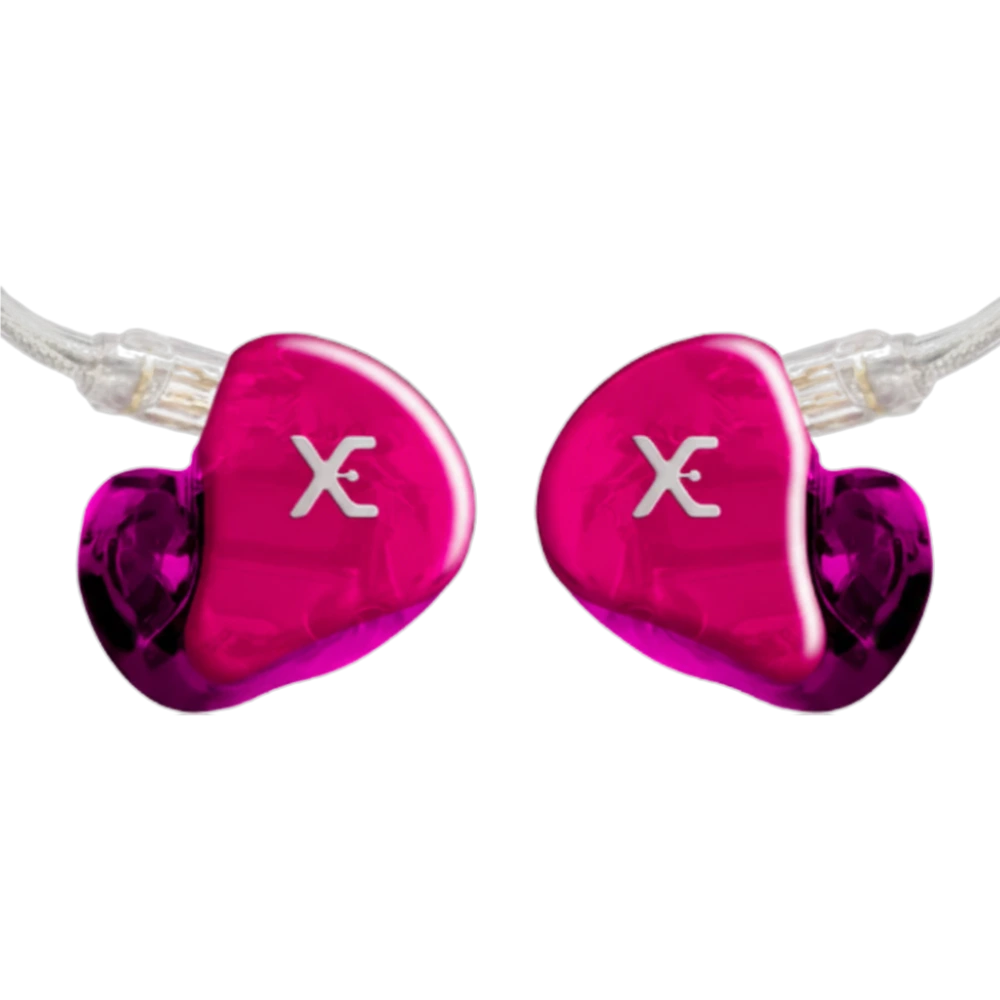
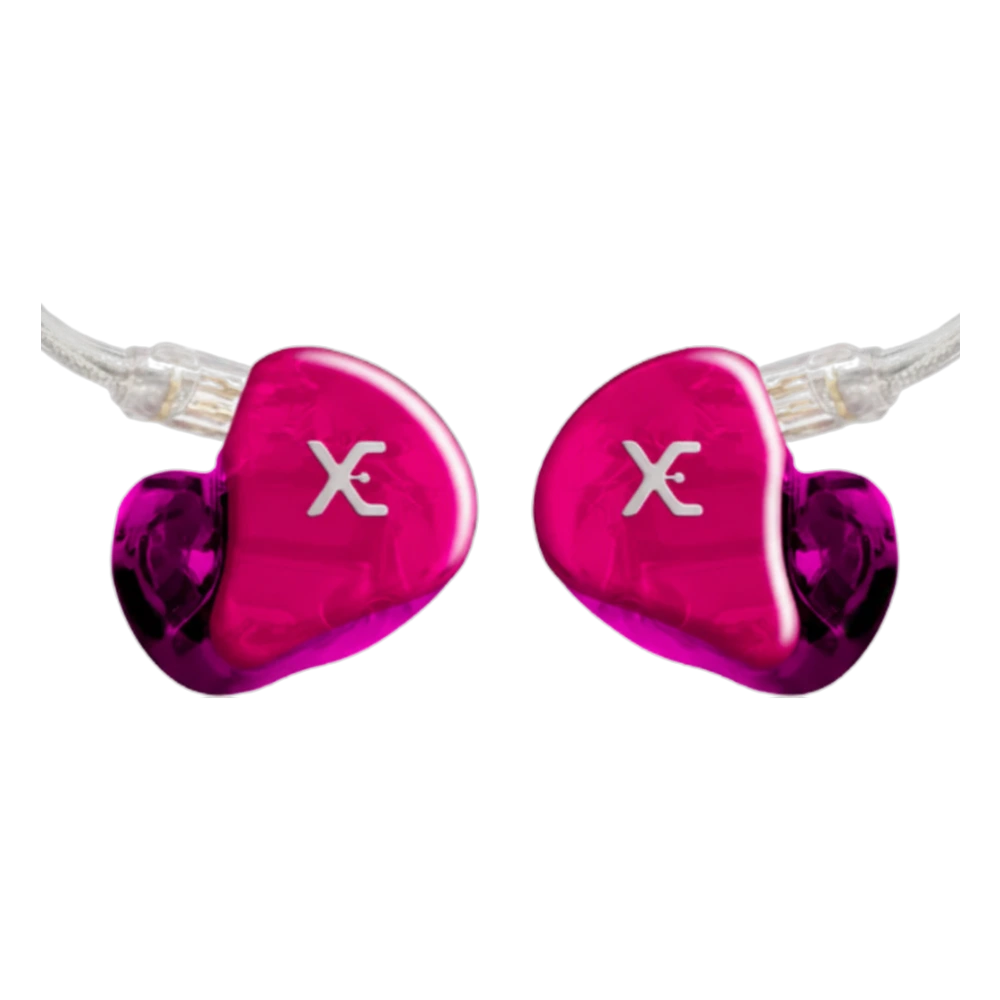
Produto ajustado ao circulo, nao ao quadrado
Eu encaixava o produto no quadrado do canvas, mas a mascara no site e
redonda: tudo que ficava perto dos cantos caia fora do circulo. Era isso
que cortava os universais, que sao diagonais — e o 104% que eu tinha
posto pra garantir o encosto piorava.

Agora a escala sai do ponto mais distante do CENTRO do produto, nao da
caixa que o contem. O ponto extremo encosta na borda, nada passa dela, e
a imagem volta pra 100%.

diff --git a/assets/site.css b/assets/site.css
@@ -271,13 +271,13 @@ button,input,select,textarea{font:inherit;color:inherit}
   transition:border-color .4s var(--ease);
 }
 .modelo-linha:hover .modelo-img{border-color:rgba(255,255,255,.42)}
-/* As imagens sao geradas num quadrado com o produto ajustado ao quadro
-   inteiro (ver tools/gerar-base.html). Entao 104% faz o produto encostar na
-   borda do circulo pelo lado mais comprido e ser cortado por ela — e o mesmo
-   valor serve pra todas, moldado ou universal. Abaixo de 100% sobra vao e
-   volta a parecer imagem cortada no ar. */
+/* 100%, nao mais: as imagens sao geradas num quadrado com o produto ajustado
+   ao quadro (tools/gerar-base.html), e o circulo inscrito nesse quadrado tem
+   o mesmo diametro. Entao em 100% a ponta do cabo encosta na borda e NADA e
+   cortado. Qualquer valor acima come o produto — nos universais, que sao
+   altos, come o proprio fone. */
 .modelo-img img{
-  width:104%;height:auto;max-width:none;
+  width:100%;height:auto;max-width:none;
   transition:transform .6s var(--ease);
 }
 .modelo-linha:hover .modelo-img img{transform:scale(1.04)}
@@ -569,7 +569,7 @@ button,input,select,textarea{font:inherit;color:inherit}
 .modelo-foto{margin:0;position:relative;display:grid;place-items:center;
   width:min(100%,480px);aspect-ratio:1;margin-inline:auto;
   border:1px solid rgba(255,255,255,.2);border-radius:50%;overflow:hidden}
-.modelo-foto img{width:104%;height:auto;max-width:none;display:block}
+.modelo-foto img{width:100%;height:auto;max-width:none;display:block}
 /* o selo segue o circulo, nao o canto do quadrado que o contem */
 .modelo-foto .card-flag{position:absolute;top:9%;left:50%;transform:translateX(-50%)}
 
@@ -600,7 +600,7 @@ button,input,select,textarea{font:inherit;color:inherit}
 .irmao:hover{border-color:var(--line);transform:translateY(-3px)}
 .irmao .volta{display:grid;place-items:center;width:72%;aspect-ratio:1;margin:24px auto 0;
   border:1px solid rgba(255,255,255,.18);border-radius:50%;overflow:hidden}
-.irmao img{width:104%;height:auto;max-width:none;filter:drop-shadow(0 12px 18px rgba(0,0,0,.55))}
+.irmao img{width:100%;height:auto;max-width:none;filter:drop-shadow(0 12px 18px rgba(0,0,0,.55))}
 .irmao div{padding:22px 24px 26px}
 .irmao strong{display:block;font-size:21px;font-weight:900;letter-spacing:-.03em}
 .irmao span{display:block;font-size:14px;color:var(--muted);margin-top:5px}

diff --git a/tools/knockout.html b/tools/knockout.html
@@ -243,24 +243,30 @@ function recorta(src, zona){
 }
 
 function padroniza(r){
-  const cw=r.cx1-r.cx0+1, ch=r.cy1-r.cy0+1;   // so as capsulas
-  const tw=r.x1-r.x0+1,  th=r.y1-r.y0+1;      // produto inteiro, com cabo
   const out=document.createElement('canvas'); out.width=OW; out.height=OH;
   const o=out.getContext('2d');
   o.imageSmoothingQuality='high';
 
-  // A escala QUER ser definida pelas capsulas, pra que o fone apareca do mesmo
-  // tamanho em todos os cards. Mas o cabo nao pode ser cortado na borda: isso
-  // le como erro, nao como enquadramento. Entao a escala das capsulas e o
-  // alvo, e o produto inteiro e o teto — vence o menor dos dois.
-  const s = Math.min(OW/tw, OH/th);   // produto ajustado ao quadro
+  // Ajusta ao CIRCULO, nao ao quadrado. A mascara no site e redonda; encaixar
+  // o produto no quadrado deixa tudo que esta perto dos cantos pra fora do
+  // circulo. A escala sai do ponto mais distante do centro: assim ele encosta
+  // na borda e nada passa dela.
+  const W=r.c.width, H=r.c.height;
+  const x2=r.c.getContext('2d',{willReadFrequently:true});
+  const d=x2.getImageData(0,0,W,H).data;
+  const cenX=(r.x0+r.x1)/2, cenY=(r.y0+r.y1)/2;
+  let maxR=1;
+  for(let py=r.y0;py<=r.y1;py++) for(let px=r.x0;px<=r.x1;px++){
+    if(d[(py*W+px)*4+3]<=16) continue;
+    const rr=Math.hypot(px-cenX, py-cenY);
+    if(rr>maxR) maxR=rr;
+  }
+  const s=(OW/2)/maxR;
 
-  // centra pelo produto inteiro, pra sobrar margem igual dos dois lados
-  const centroX=(r.x0+r.x1)/2, centroY=(r.y0+r.y1)/2;
-  o.drawImage(r.c, 0,0, r.c.width, r.c.height,
-              OW/2 - centroX*s, OH/2 - centroY*s, r.c.width*s, r.c.height*s);
+  o.drawImage(r.c, 0,0, W, H, OW/2 - cenX*s, OH/2 - cenY*s, W*s, H*s);
   return out;
 }
+
 
 (async()=>{
   const linhas=[];

diff --git a/tools/gerar-base.html b/tools/gerar-base.html
@@ -102,8 +102,20 @@ const load=s=>new Promise((r,j)=>{const i=new Image();i.onload=()=>r(i);i.onerro
     if(px<X0)X0=px; if(px>X1)X1=px; if(py<Y0)Y0=py; if(py>Y1)Y1=py}
   const out=document.createElement('canvas'); out.width=OW; out.height=OH;
   const o=out.getContext('2d'); o.imageSmoothingQuality='high';
-  const s=Math.min(OW/(X1-X0+1), OH/(Y1-Y0+1));
-  const mx=(X0+X1)/2, my=(Y0+Y1)/2;
+  // ---- ajusta ao CIRCULO, nao ao quadrado ----
+  // A mascara no site e redonda. Encaixar o produto no quadrado deixa tudo
+  // que esta perto dos cantos pra fora do circulo — e o que cortava os
+  // universais, que sao diagonais. Aqui a escala sai do ponto mais distante
+  // do centro: assim ele encosta na borda e nada passa dela.
+  const cenX=(X0+X1)/2, cenY=(Y0+Y1)/2;
+  let maxR=1;
+  for(let py=Y0;py<=Y1;py++) for(let px=X0;px<=X1;px++){
+    if(dd[(py*W+px)*4+3]<=16) continue;
+    const r=Math.hypot(px-cenX, py-cenY);
+    if(r>maxR) maxR=r;
+  }
+  const s=(OW/2)/maxR;
+  const mx=cenX, my=cenY;
   o.drawImage(c1,0,0,W,alt, OW/2-mx*s, OH/2-my*s, W*s, alt*s);
 
   const blob=await new Promise(k=>out.toBlob(k,'image/webp',0.92));

diff --git a/one-plus-pro/index.html b/one-plus-pro/index.html
@@ -15,7 +15,7 @@
 <link rel="preconnect" href="https://fonts.googleapis.com">
 <link rel="preconnect" href="https://fonts.gstatic.com" crossorigin>
 <link rel="stylesheet" href="https://fonts.googleapis.com/css2?family=DM+Sans:opsz,wght@9..40,400;9..40,500;9..40,600;9..40,700;9..40,800;9..40,900&display=swap">
-<link rel="stylesheet" href="../assets/site.css?v=202610032117">
+<link rel="stylesheet" href="../assets/site.css?v=202610032127">
 </head>
 <body>
 <a class="skip" href="#conteudo">Pular para o conteúdo</a>
@@ -249,6 +249,6 @@
 </a>
 
 <script async src="https://www.instagram.com/embed.js"></script>
-<script src="../assets/site.js?v=202610032117"></script>
+<script src="../assets/site.js?v=202610032127"></script>
 </body>
 </html>

diff --git a/onemax-pro/index.html b/onemax-pro/index.html
@@ -15,7 +15,7 @@
 <link rel="preconnect" href="https://fonts.googleapis.com">
 <link rel="preconnect" href="https://fonts.gstatic.com" crossorigin>
 <link rel="stylesheet" href="https://fonts.googleapis.com/css2?family=DM+Sans:opsz,wght@9..40,400;9..40,500;9..40,600;9..40,700;9..40,800;9..40,900&display=swap">
-<link rel="stylesheet" href="../assets/site.css?v=202610032117">
+<link rel="stylesheet" href="../assets/site.css?v=202610032127">
 </head>
 <body>
 <a class="skip" href="#conteudo">Pular para o conteúdo</a>
@@ -251,6 +251,6 @@
 </a>
 
 <script async src="https://www.instagram.com/embed.js"></script>
-<script src="../assets/site.js?v=202610032117"></script>
+<script src="../assets/site.js?v=202610032127"></script>
 </body>
 </html>

diff --git a/xe12-pro/index.html b/xe12-pro/index.html
@@ -15,7 +15,7 @@
 <link rel="preconnect" href="https://fonts.googleapis.com">
 <link rel="preconnect" href="https://fonts.gstatic.com" crossorigin>
 <link rel="stylesheet" href="https://fonts.googleapis.com/css2?family=DM+Sans:opsz,wght@9..40,400;9..40,500;9..40,600;9..40,700;9..40,800;9..40,900&display=swap">
-<link rel="stylesheet" href="../assets/site.css?v=202610032117">
+<link rel="stylesheet" href="../assets/site.css?v=202610032127">
 </head>
 <body>
 <a class="skip" href="#conteudo">Pular para o conteúdo</a>
@@ -252,6 +252,6 @@
 </a>
 
 <script async src="https://www.instagram.com/embed.js"></script>
-<script src="../assets/site.js?v=202610032117"></script>
+<script src="../assets/site.js?v=202610032127"></script>
 </body>
 </html>

diff --git a/xe14-pro/index.html b/xe14-pro/index.html
@@ -15,7 +15,7 @@
 <link rel="preconnect" href="https://fonts.googleapis.com">
 <link rel="preconnect" href="https://fonts.gstatic.com" crossorigin>
 <link rel="stylesheet" href="https://fonts.googleapis.com/css2?family=DM+Sans:opsz,wght@9..40,400;9..40,500;9..40,600;9..40,700;9..40,800;9..40,900&display=swap">
-<link rel="stylesheet" href="../assets/site.css?v=202610032117">
+<link rel="stylesheet" href="../assets/site.css?v=202610032127">
 </head>
 <body>
 <a class="skip" href="#conteudo">Pular para o conteúdo</a>
@@ -249,6 +249,6 @@
 </a>
 
 <script async src="https://www.instagram.com/embed.js"></script>
-<script src="../assets/site.js?v=202610032117"></script>
+<script src="../assets/site.js?v=202610032127"></script>
 </body>
 </html>

diff --git a/xe3-pro/index.html b/xe3-pro/index.html
@@ -15,7 +15,7 @@
 <link rel="preconnect" href="https://fonts.googleapis.com">
 <link rel="preconnect" href="https://fonts.gstatic.com" crossorigin>
 <link rel="stylesheet" href="https://fonts.googleapis.com/css2?family=DM+Sans:opsz,wght@9..40,400;9..40,500;9..40,600;9..40,700;9..40,800;9..40,900&display=swap">
-<link rel="stylesheet" href="../assets/site.css?v=202610032117">
+<link rel="stylesheet" href="../assets/site.css?v=202610032127">
 </head>
 <body>
 <a class="skip" href="#conteudo">Pular para o conteúdo</a>
@@ -250,6 +250,6 @@
 </a>
 
 <script async src="https://www.instagram.com/embed.js"></script>
-<script src="../assets/site.js?v=202610032117"></script>
+<script src="../assets/site.js?v=202610032127"></script>
 </body>
 </html>

diff --git a/xe4-pro/index.html b/xe4-pro/index.html
@@ -15,7 +15,7 @@
 <link rel="preconnect" href="https://fonts.googleapis.com">
 <link rel="preconnect" href="https://fonts.gstatic.com" crossorigin>
 <link rel="stylesheet" href="https://fonts.googleapis.com/css2?family=DM+Sans:opsz,wght@9..40,400;9..40,500;9..40,600;9..40,700;9..40,800;9..40,900&display=swap">
-<link rel="stylesheet" href="../assets/site.css?v=202610032117">
+<link rel="stylesheet" href="../assets/site.css?v=202610032127">
 </head>
 <body>
 <a class="skip" href="#conteudo">Pular para o conteúdo</a>
@@ -251,6 +251,6 @@
 </a>
 
 <script async src="https://www.instagram.com/embed.js"></script>
-<script src="../assets/site.js?v=202610032117"></script>
+<script src="../assets/site.js?v=202610032127"></script>
 </body>
 </html>

diff --git a/xe5-pro/index.html b/xe5-pro/index.html
@@ -15,7 +15,7 @@
 <link rel="preconnect" href="https://fonts.googleapis.com">
 <link rel="preconnect" href="https://fonts.gstatic.com" crossorigin>
 <link rel="stylesheet" href="https://fonts.googleapis.com/css2?family=DM+Sans:opsz,wght@9..40,400;9..40,500;9..40,600;9..40,700;9..40,800;9..40,900&display=swap">
-<link rel="stylesheet" href="../assets/site.css?v=202610032117">
+<link rel="stylesheet" href="../assets/site.css?v=202610032127">
 </head>
 <body>
 <a class="skip" href="#conteudo">Pular para o conteúdo</a>
@@ -251,6 +251,6 @@
 </a>
 
 <script async src="https://www.instagram.com/embed.js"></script>
-<script src="../assets/site.js?v=202610032117"></script>
+<script src="../assets/site.js?v=202610032127"></script>
 </body>
 </html>

diff --git a/xe6-pro/index.html b/xe6-pro/index.html
@@ -15,7 +15,7 @@
 <link rel="preconnect" href="https://fonts.googleapis.com">
 <link rel="preconnect" href="https://fonts.gstatic.com" crossorigin>
 <link rel="stylesheet" href="https://fonts.googleapis.com/css2?family=DM+Sans:opsz,wght@9..40,400;9..40,500;9..40,600;9..40,700;9..40,800;9..40,900&display=swap">
-<link rel="stylesheet" href="../assets/site.css?v=202610032117">
+<link rel="stylesheet" href="../assets/site.css?v=202610032127">
 </head>
 <body>
 <a class="skip" href="#conteudo">Pular para o conteúdo</a>
@@ -251,6 +251,6 @@
 </a>
 
 <script async src="https://www.instagram.com/embed.js"></script>
-<script src="../assets/site.js?v=202610032117"></script>
+<script src="../assets/site.js?v=202610032127"></script>
 </body>
 </html>

diff --git a/xe8-pro/index.html b/xe8-pro/index.html
@@ -15,7 +15,7 @@
 <link rel="preconnect" href="https://fonts.googleapis.com">
 <link rel="preconnect" href="https://fonts.gstatic.com" crossorigin>
 <link rel="stylesheet" href="https://fonts.googleapis.com/css2?family=DM+Sans:opsz,wght@9..40,400;9..40,500;9..40,600;9..40,700;9..40,800;9..40,900&display=swap">
-<link rel="stylesheet" href="../assets/site.css?v=202610032117">
+<link rel="stylesheet" href="../assets/site.css?v=202610032127">
 </head>
 <body>
 <a class="skip" href="#conteudo">Pular para o conteúdo</a>
@@ -251,6 +251,6 @@
 </a>
 
 <script async src="https://www.instagram.com/embed.js"></script>
-<script src="../assets/site.js?v=202610032117"></script>
+<script src="../assets/site.js?v=202610032127"></script>
 </body>
 </html>
